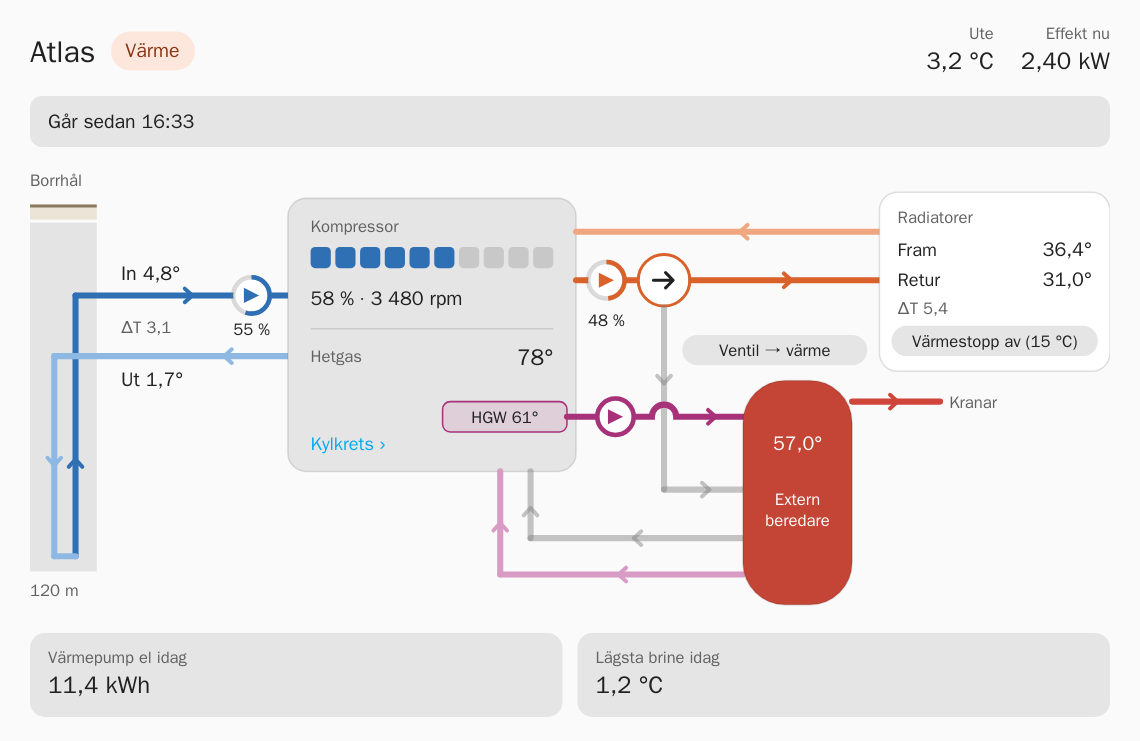
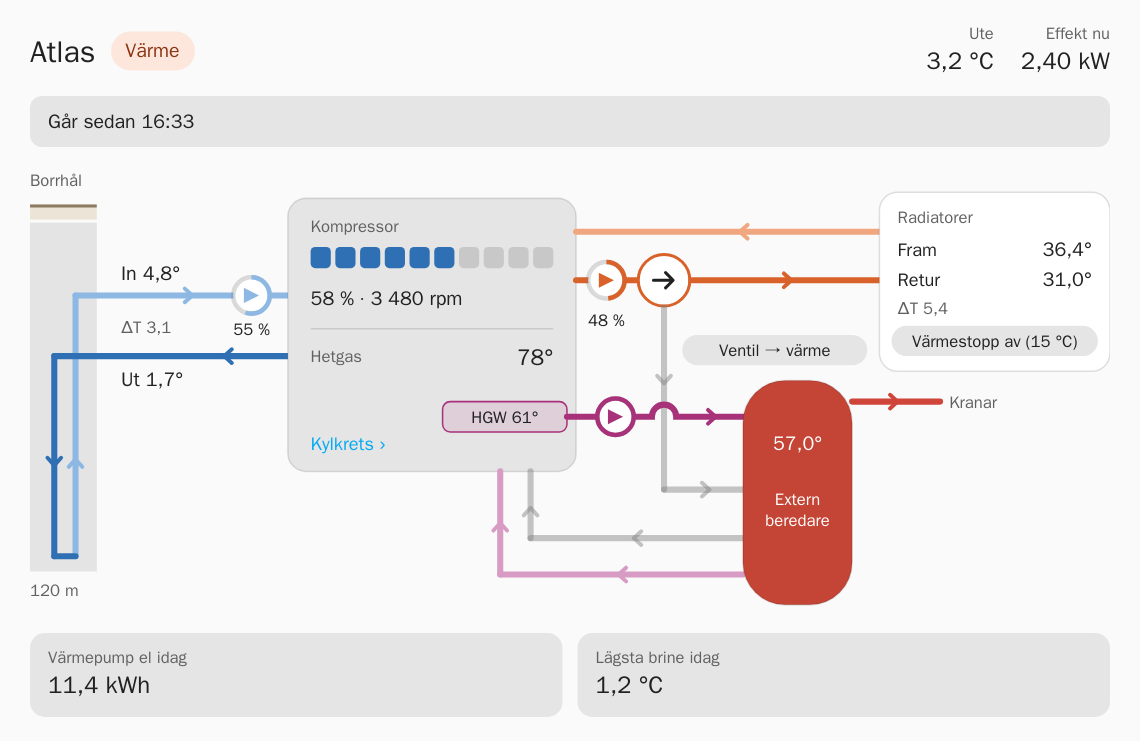
0.2.1: brine out (colder) deeper blue, brine in paler

Changed region(s): [[0.0307, 0.3725, 0.2456, 0.776]]

diff --git a/dist/atlas-card.js b/dist/atlas-card.js
@@ -12,7 +12,7 @@
  * MIT License
  */
 
-const CARD_VERSION = "0.2.0";
+const CARD_VERSION = "0.2.1";
 
 // Entity defaults: the thermiagenesis entity ids (the integration names every entity after the
 // same device, whatever the model). Anything else (power meter, price, the valve, the hot gas
@@ -61,7 +61,8 @@ const DEFAULT_ENTITIES = {
 };
 
 const COLORS = {
-  brineIn: "#2f6fb3", brineOut: "#8db8e3",
+  // Brine in (from the borehole) is the warmer side, so the paler blue; brine out, the colder, deeper blue
+  brineIn: "#8db8e3", brineOut: "#2f6fb3",
   heat: "#d9622b", heatRet: "#f0a77f",
   hw: "#d0453a", hwRet: "#ec9a92",
   tap: "#d0453a", idle: "var(--atlas-idle, rgba(127, 127, 127, 0.45))",

diff --git a/CHANGELOG.md b/CHANGELOG.md
@@ -1,5 +1,9 @@
 # Changelog
 
+## 0.2.1 — 2026-11-01
+
+- **Brine colours follow temperature.** The colder side, brine out on its way back to the borehole, is now the deeper blue and brine in the paler one, the same way the radiator supply is a stronger orange than the return.
+
 ## 0.2.0 — 2026-11-01
 
 - **HGW values moved into the heat pump, no separate box.** The hot gas (discharge pipe) temperature is shown in the compressor box, where the immersion heater row sits when one is configured (next to the HGW label otherwise). The temperature going to the tank is shown in the HGW label itself ("HGW 63°") while the loop runs. The box to the right of the tank is gone; the coloured loop and label show that HGW runs.
